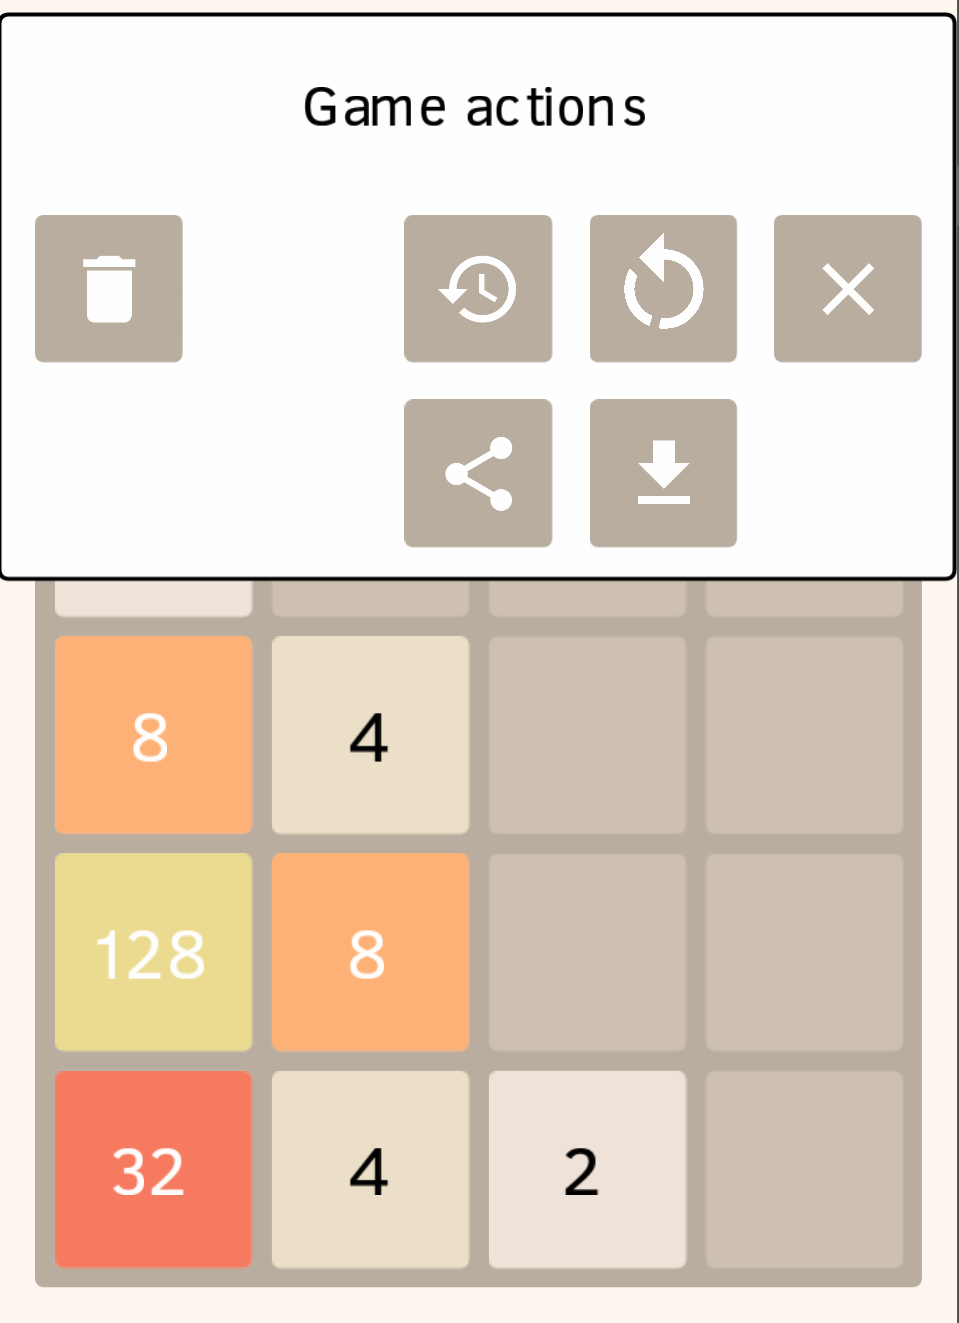
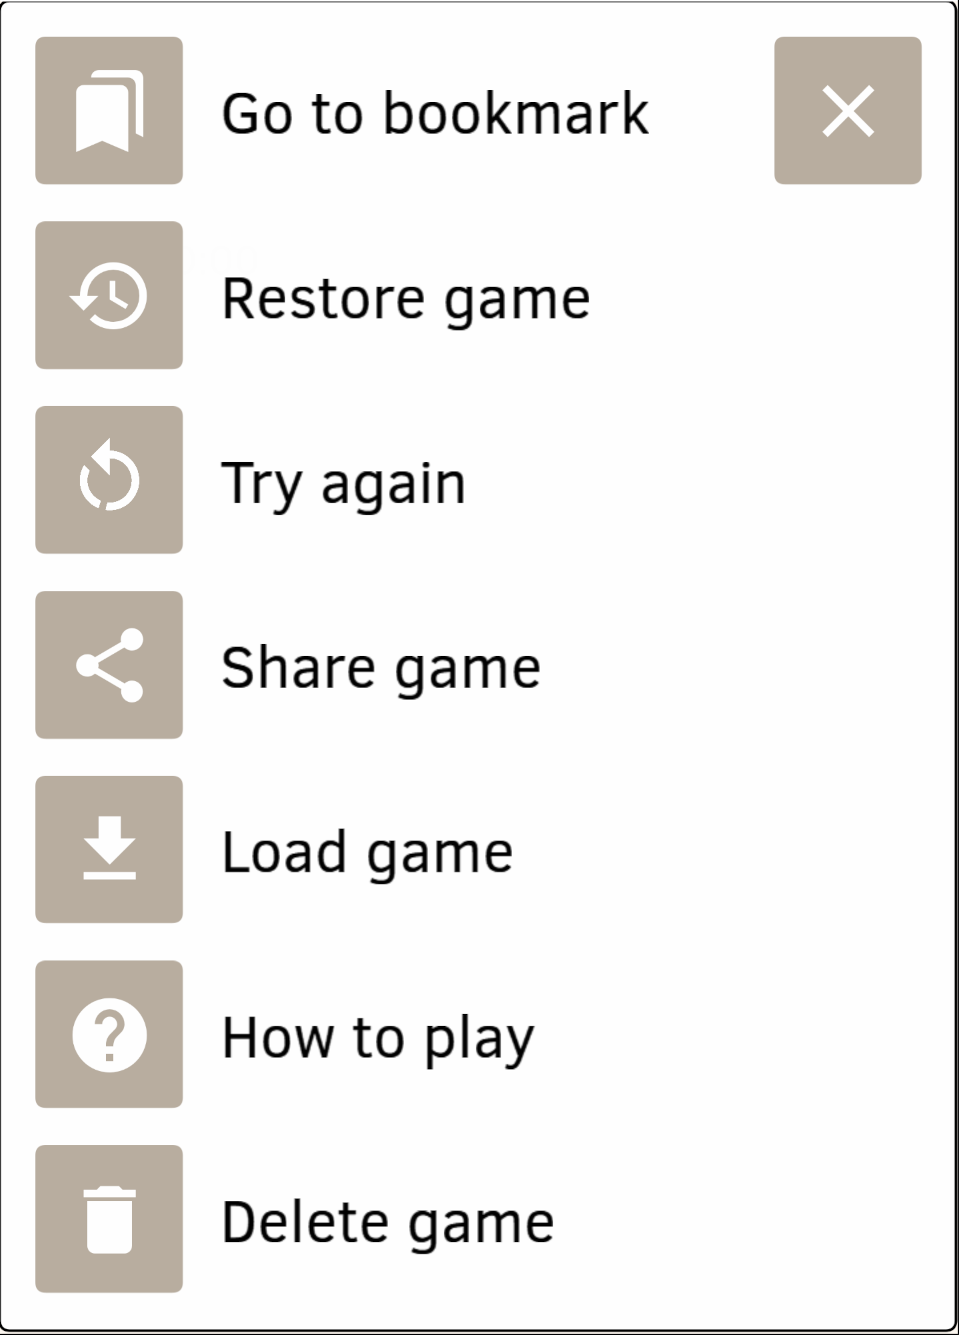
v.1.1 Game bookmarks

diff --git a/README.md b/README.md
@@ -1,6 +1,6 @@
 # 2048 Open Fun Game
 
-2048 game with Auto Replay, History and other fun features,
+2048 game with Bookmarks, Auto Replay, History and other fun features,
 Open Source, no ads
 
 This is [2048 game](https://en.wikipedia.org/wiki/2048_(video_game)) multiplatform implementation
@@ -26,7 +26,8 @@ Number 2048 is a good first win…
 ### Features of "2048 Open Fun Game" that are not present in the original game
 
 * Unlimited and animated Undo and Redo.
-* Move number and game time played shown. The time starts when you make a move.
+* Bookmarks at the interesting game positions.
+* Move number and game duration shown. The time starts when you make a move.
   It stops when you tap Undo or Pause button.
 * "Watch" mode. Auto replay current game forward and backwards with any speed,
   stop at any position.
@@ -60,7 +61,10 @@ and [KorGe game engine](https://korge.org/).
 
 Following this goal, the source code has been structured and cleaned. We're trying to use 
 board games terminology (e.g. [Glossary of chess](https://en.wikipedia.org/wiki/Glossary_of_chess))
-in order to ease understanding of implementation logic.   
+in order to ease understanding of implementation logic.
+
+Game exchange text format created (JSON based) to allow users share  
+and load shared games with all moves and bookmarks.
 
 <a id="changelog"/>
 
